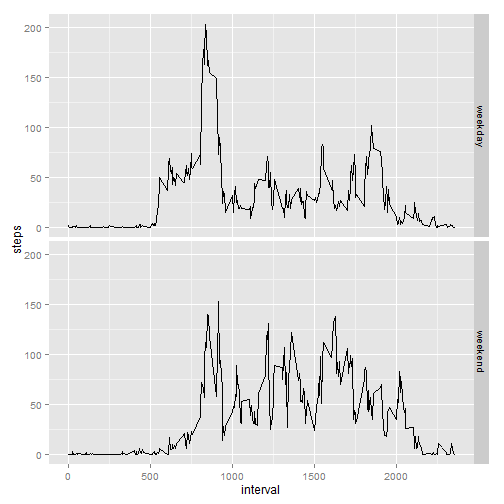
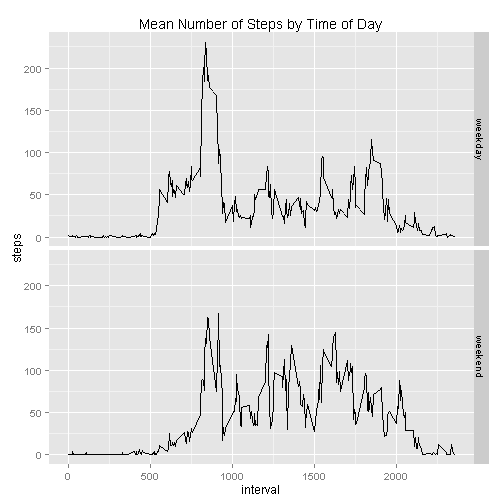
improved PA1_template figures

diff --git a/PA1_template.html b/PA1_template.html
@@ -225,18 +225,18 @@ raw&lt;-read.csv(&quot;activity.csv&quot;)
 </ol>
 
 <pre><code class="r">dailySteps&lt;-tapply(raw$steps,raw$date,sum,na.rm=TRUE)  
-hist(dailySteps,xlab=&quot;Steps&quot;,main=&quot;Number of Steps per Day&quot;,breaks=20)  
+hist(dailySteps,xlab=&quot;Steps&quot;,main=&quot;Number of Steps per Day&quot;,breaks=20,col=&quot;red&quot;)  
 </code></pre>
 
[2 lines of base64/hex data omitted]
 
-<pre><code class="r">paste(&quot;Mean number of steps per day:&quot;,mean(dailySteps))
+<pre><code class="r">paste(&quot;Mean number of steps per day:&quot;,round(mean(dailySteps),0))
 </code></pre>
 
-<pre><code>## [1] &quot;Mean number of steps per day: 9354.22950819672&quot;
+<pre><code>## [1] &quot;Mean number of steps per day: 9354&quot;
 </code></pre>
 
-<pre><code class="r">paste(&quot;Median number of steps per day:&quot;,median(dailySteps))
+<pre><code class="r">paste(&quot;Median number of steps per day:&quot;,round(median(dailySteps),0))
 </code></pre>
 
 <pre><code>## [1] &quot;Median number of steps per day: 10395&quot;
@@ -252,11 +252,11 @@ hist(dailySteps,xlab=&quot;Steps&quot;,main=&quot;Number of Steps per Day&quot;,
 <pre><code class="r">intervals&lt;-unique(raw$interval)
 intervalSteps&lt;-tapply(raw$steps,raw$interval,mean,na.rm=TRUE)
 plot(intervals,intervalSteps,type=&quot;l&quot;,
-     xlab=&quot;interval&quot;,ylab=&quot;Mean Number of Steps&quot;,
-     main=&quot;Mean Number of Steps by Time of Day&quot;)
+    xlab=&quot;interval&quot;,ylab=&quot;Mean Number of Steps&quot;,
+    main=&quot;Mean Number of Steps by Time of Day&quot;)
 </code></pre>
 
[2 lines of base64/hex data omitted]
 
 <pre><code class="r">paste(&quot;The highest average number of steps takes place at:&quot;,intervals[which.max(intervalSteps)])
 </code></pre>
@@ -282,25 +282,28 @@ plot(intervals,intervalSteps,type=&quot;l&quot;,
 </code></pre>
 
 <pre><code class="r">modified&lt;-raw
-modified$steps[is.na(modified$steps)]&lt;-0
-# lookup&lt;-cbind(intervals,intervalWithoutNA)
-# idx&lt;-which(is.na(raw$steps))
+for(i in 1:length(intervals)){
+    int&lt;-intervals[i]
+    step&lt;-intervalSteps[i]
+    modified$steps[is.na(modified$steps) &amp;
+        modified$interval==int]&lt;-step
+}
 daily&lt;-tapply(modified$steps,modified$date,sum)
-hist(daily,xlab=&quot;Steps&quot;,main=&quot;Number of Steps per Day&quot;,breaks=20)
+hist(daily,xlab=&quot;Steps&quot;,main=&quot;Number of Steps per Day&quot;,breaks=20,col=&quot;red&quot;)
 </code></pre>
 
[2 lines of base64/hex data omitted]
 
-<pre><code class="r">paste(&quot;Mean number of steps per day:&quot;,mean(daily))
+<pre><code class="r">paste(&quot;Mean number of steps per day:&quot;,round(mean(daily),0))
 </code></pre>
 
-<pre><code>## [1] &quot;Mean number of steps per day: 9354.22950819672&quot;
+<pre><code>## [1] &quot;Mean number of steps per day: 10766&quot;
 </code></pre>
 
-<pre><code class="r">paste(&quot;Median number of steps per day:&quot;,median(daily))
+<pre><code class="r">paste(&quot;Median number of steps per day:&quot;,round(median(daily),0))
 </code></pre>
 
-<pre><code>## [1] &quot;Median number of steps per day: 10395&quot;
+<pre><code>## [1] &quot;Median number of steps per day: 10766&quot;
 </code></pre>
 
 <h3>Are there differences in activity patterns between weekdays and weekends?</h3>
@@ -321,10 +324,11 @@ weekdaySteps&lt;-aggregate(modified$steps~modified$interval+modified$weekday, da
 names(weekdaySteps)&lt;-c(&quot;interval&quot;,&quot;weekday&quot;,&quot;steps&quot;)
 library(ggplot2)
 g&lt;-ggplot(weekdaySteps, aes(interval,steps))
-g+geom_line()+facet_grid(weekday~.)
+g+geom_line()+facet_grid(weekday~.)+
+    labs(title=&quot;Mean Number of Steps by Time of Day&quot;)
 </code></pre>
 
[2 lines of base64/hex data omitted]
 
 </body>
 

diff --git a/PA1_template.md b/PA1_template.md
@@ -21,21 +21,21 @@ For this part of the assignment, you can ignore the missing values in the datase
 
 ```r
 dailySteps<-tapply(raw$steps,raw$date,sum,na.rm=TRUE)  
-hist(dailySteps,xlab="Steps",main="Number of Steps per Day",breaks=20)  
+hist(dailySteps,xlab="Steps",main="Number of Steps per Day",breaks=20,col="red")  
 ```
 
 ![plot of chunk unnamed-chunk-2](figure/unnamed-chunk-2-1.png) 
 
 ```r
-paste("Mean number of steps per day:",mean(dailySteps))
+paste("Mean number of steps per day:",round(mean(dailySteps),0))
 ```
 
 ```
-## [1] "Mean number of steps per day: 9354.22950819672"
+## [1] "Mean number of steps per day: 9354"
 ```
 
 ```r
-paste("Median number of steps per day:",median(dailySteps))
+paste("Median number of steps per day:",round(median(dailySteps),0))
 ```
 
 ```
@@ -50,8 +50,8 @@ paste("Median number of steps per day:",median(dailySteps))
 intervals<-unique(raw$interval)
 intervalSteps<-tapply(raw$steps,raw$interval,mean,na.rm=TRUE)
 plot(intervals,intervalSteps,type="l",
-     xlab="interval",ylab="Mean Number of Steps",
-     main="Mean Number of Steps by Time of Day")
+    xlab="interval",ylab="Mean Number of Steps",
+    main="Mean Number of Steps by Time of Day")
 ```
 
 ![plot of chunk unnamed-chunk-3](figure/unnamed-chunk-3-1.png) 
@@ -82,29 +82,32 @@ paste("The number of NA's present in the raw data set:",sum(is.na(raw$steps)))
 
 ```r
 modified<-raw
-modified$steps[is.na(modified$steps)]<-0
-# lookup<-cbind(intervals,intervalWithoutNA)
-# idx<-which(is.na(raw$steps))
+for(i in 1:length(intervals)){
+    int<-intervals[i]
+    step<-intervalSteps[i]
+    modified$steps[is.na(modified$steps) &
+        modified$interval==int]<-step
+}
 daily<-tapply(modified$steps,modified$date,sum)
-hist(daily,xlab="Steps",main="Number of Steps per Day",breaks=20)
+hist(daily,xlab="Steps",main="Number of Steps per Day",breaks=20,col="red")
 ```
 
 ![plot of chunk unnamed-chunk-4](figure/unnamed-chunk-4-1.png) 
 
 ```r
-paste("Mean number of steps per day:",mean(daily))
+paste("Mean number of steps per day:",round(mean(daily),0))
 ```
 
 ```
-## [1] "Mean number of steps per day: 9354.22950819672"
+## [1] "Mean number of steps per day: 10766"
 ```
 
 ```r
-paste("Median number of steps per day:",median(daily))
+paste("Median number of steps per day:",round(median(daily),0))
 ```
 
 ```
-## [1] "Median number of steps per day: 10395"
+## [1] "Median number of steps per day: 10766"
 ```
 ### Are there differences in activity patterns between weekdays and weekends?  
 
@@ -123,7 +126,8 @@ weekdaySteps<-aggregate(modified$steps~modified$interval+modified$weekday, data=
 names(weekdaySteps)<-c("interval","weekday","steps")
 library(ggplot2)
 g<-ggplot(weekdaySteps, aes(interval,steps))
-g+geom_line()+facet_grid(weekday~.)
+g+geom_line()+facet_grid(weekday~.)+
+    labs(title="Mean Number of Steps by Time of Day")
 ```
 
 ![plot of chunk unnamed-chunk-5](figure/unnamed-chunk-5-1.png) 
